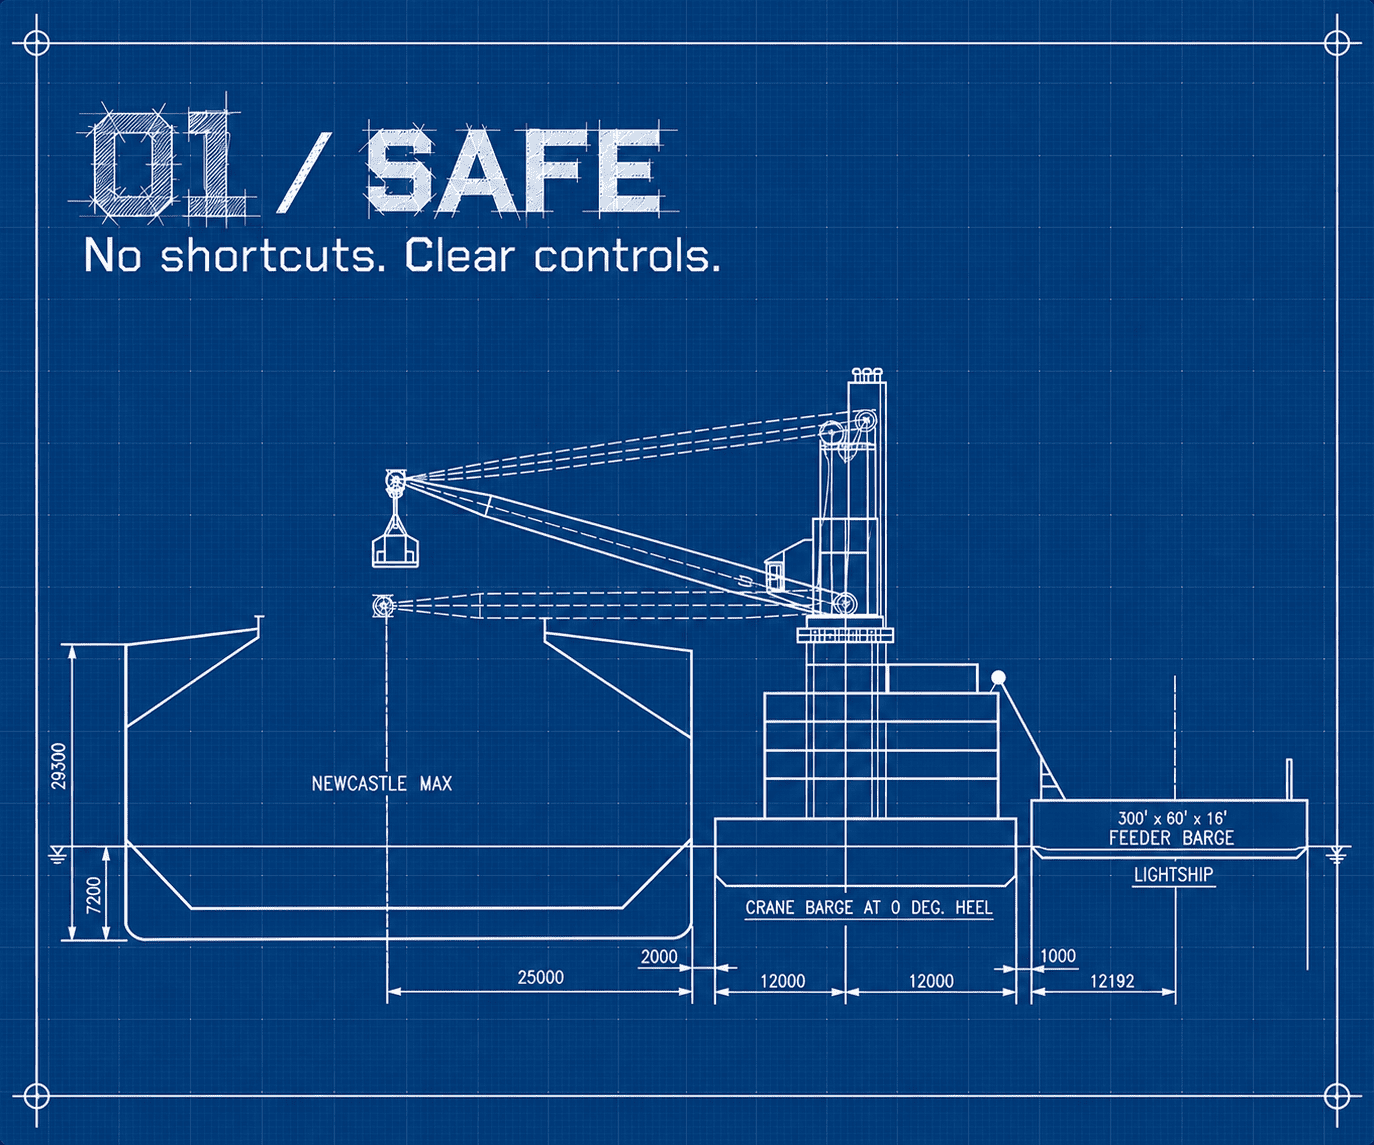
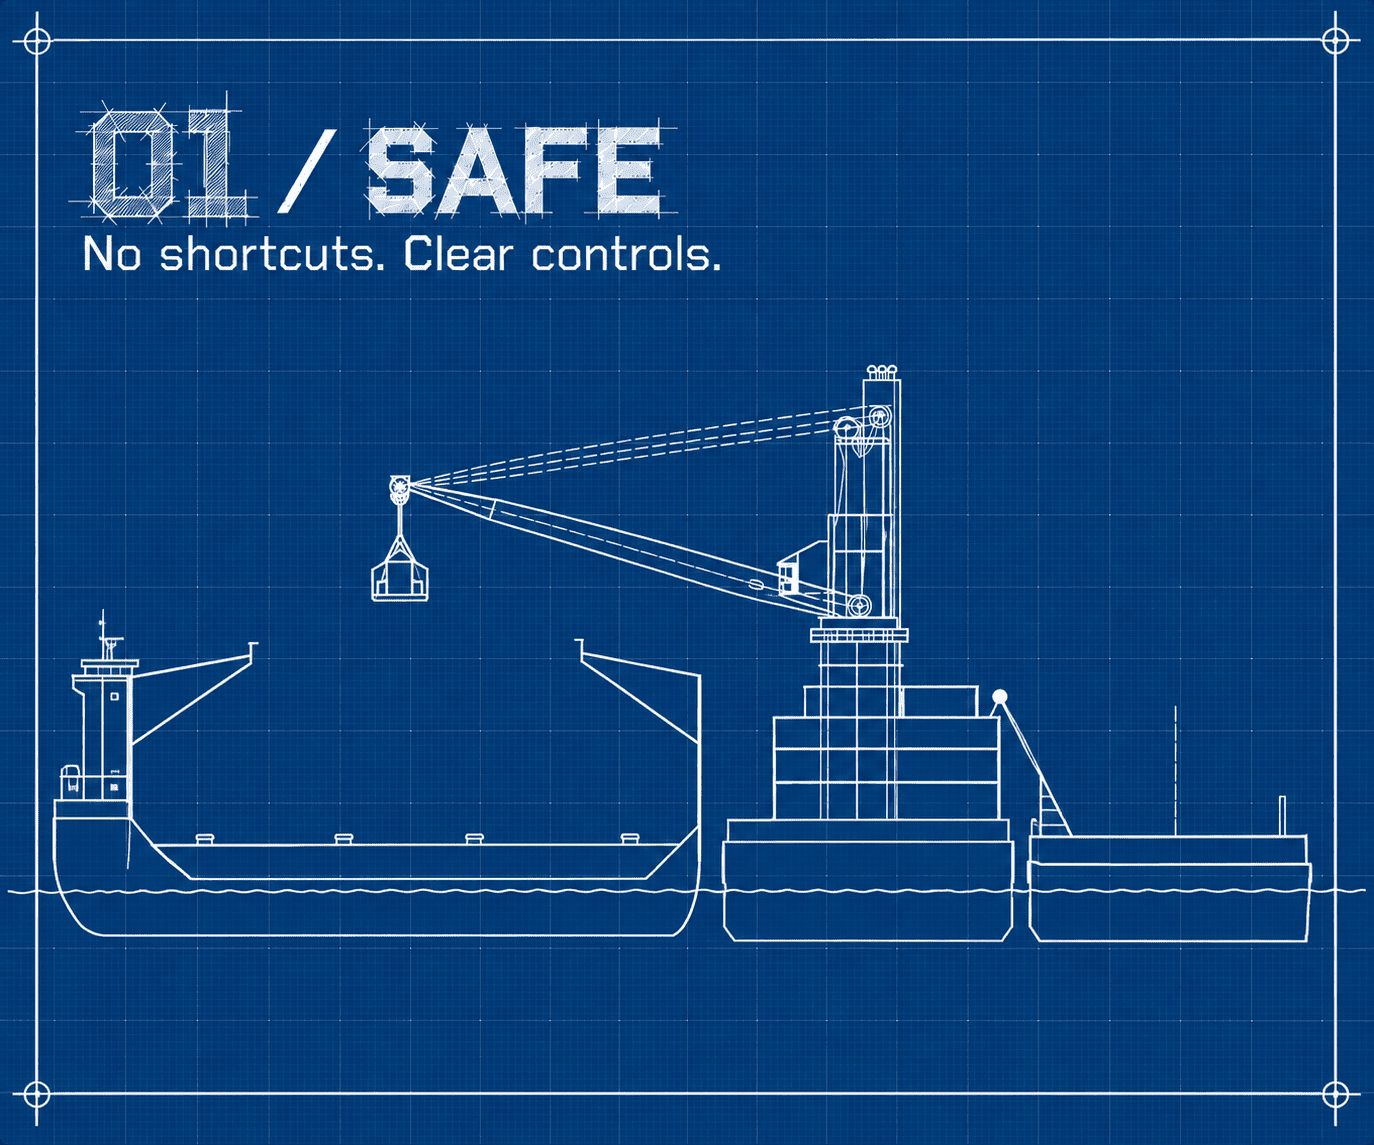
Refactor code structure for improved readability and maintainability

diff --git a/index.html b/index.html
@@ -16,7 +16,7 @@
         href="https://fonts.googleapis.com/css2?family=Barlow+Condensed:wght@500;600;700&family=DM+Sans:wght@400;450;500;600;650;700&display=swap">
     <link rel="stylesheet" href="style.css?v=20260928-perf1">
     <link rel="stylesheet" href="revamp.css?v=20260930-hse4">
-    <link rel="preload" as="image" href="assets/mobile-hero-superfast-v2.jpg" media="(max-width: 760px)"
+    <link rel="preload" as="image" href="assets/mobile-hero-superfast.png" media="(max-width: 760px)"
         fetchpriority="high">
 </head>
 
@@ -115,7 +115,7 @@
                     <img class="fleet-phase-bg fleet-phase-drawing" src="assets/e-crane-planned-blueprint.png"
                         alt="Planned E-Crane floating crane platform" loading="lazy">
                     <div class="fleet-phase-content">
-                        <p class="eyebrow">PLANNED EXPANSION / 2 FLOATING CRANES</p>
+                        <p class="eyebrow">UNDER CONSTRUCTION - ROLL OUT IN Q2 2027 / 2 FLOATING CRANES</p>
                         <h3>More capacity.<br>The same discipline.</h3>
                         <div class="fleet-capacity" aria-label="30,000 tonnes per day per planned floating crane">
                             <strong>30,000</strong>
@@ -166,36 +166,40 @@
             <div class="reliability-list">
                 <details name="reliability" open data-showcase="equipment">
                     <summary><span>01</span> Proven equipment <b>+</b></summary>
-                    <p>Internationally recognised machinery from Caterpillar, E-Crane, MacGregor, Nemag and Yanmar,
-                        selected for demanding duty and established technical support.</p>
+                    <!-- <p>Internationally recognised machinery from Caterpillar, E-Crane, MacGregor, Nemag and Yanmar,
+                        selected for demanding duty and established technical support.</p> -->
                 </details>
                 <details name="reliability" data-showcase="maintenance">
                     <summary><span>02</span> Planned maintenance <b>+</b></summary>
-                    <p>CMMS-controlled inspections, preventive maintenance and condition monitoring aligned to running
-                        hours, equipment condition and loading commitments.</p>
+                    <!-- <p>CMMS-controlled inspections, preventive maintenance and condition monitoring aligned to running
+                        hours, equipment condition and loading commitments.</p> -->
                 </details>
                 <details name="reliability" data-showcase="critical">
                     <summary><span>03</span> Critical spares <b>+</b></summary>
-                    <p>Risk-ranked critical spares, wire ropes and wear components planned against failure consequence
-                        and lead time to protect return-to-service time.</p>
+                        <!-- <p>Risk-ranked critical spares, wire ropes and wear components planned against failure consequence
+                            and lead time to protect return-to-service time.</p> -->
                 </details>
                 <details name="reliability" data-showcase="response">
                     <summary><span>04</span> Technical response <b>+</b></summary>
-                    <p>Crane specialists, strategically positioned service personnel, remote diagnostics and field
-                        intervention support fault isolation and operational recovery.</p>
+                    <!-- <p>Crane specialists, strategically positioned service personnel, remote diagnostics and field
+                        intervention support fault isolation and operational recovery.</p> -->
                 </details>
                 <details name="reliability" data-showcase="performance">
                     <summary><span>05</span> Performance control <b>+</b></summary>
-                    <p>Loading rates, mechanical availability, utilisation, equipment condition and delay attribution
-                        are reviewed to drive corrective action and continuous improvement.</p>
+                    <!-- <p>Loading rates, mechanical availability, utilisation, equipment condition and delay attribution
+                        are reviewed to drive corrective action and continuous improvement.</p> -->
                 </details>
 
                 <div class="reliability-showcase" data-active-showcase="equipment">
                     <div class="reliability-showcase-panel is-active" data-showcase-panel="equipment">
                         <div class="equipment-marquee" aria-label="Equipment brands">
-                            <div class="equipment-marquee-track">
+                            <figure class="reliability-showcase-panel reliability-photo-panel" data-showcase-panel="equipment">
+                                <img src="assets/equipment.png">
+                            </figure>
+                    <!-- 
+                        <div class="equipment-marquee-track">
 
-                        <div class="equipment-logo-set">
+                            <div class="equipment-logo-set">
                             <div class="equipment-logo"><img src="assets/brand/macgregor.svg" alt="MacGregor" decoding="async"><span>MacGregor</span></div>
                             <div class="equipment-logo ecrane-logo"><img src="assets/brand/E-Crane.jpg" alt="E-Crane" decoding="async"><span>E-Crane</span></div>
                             <div class="equipment-logo"><img src="assets/brand/Caterpillar.webp" alt="Caterpillar" decoding="async"><span>Caterpillar</span></div>
@@ -204,8 +208,9 @@
                             <div class="equipment-logo"><img src="assets/brand/nemag.png" alt="Nemag" decoding="async"><span>Nemag</span></div>
                             <div class="equipment-logo"><img src="assets/brand/j%26B.svg" alt="J&amp;B Grijpers" decoding="async"><span>J&amp;B</span></div>
                             <div class="equipment-logo"><img src="assets/brand/weihua.png" alt="Weihua" decoding="async"><span>Weihua</span></div>
+                            </div> 
                         </div>
-</div>
+                    -->
                             </div>
                         </div>
                     </div>
@@ -280,7 +285,7 @@
                 </article>
             </div>
 
-            <details class="hse hse-static">
+            <!-- <details class="hse hse-static">
                 <summary>Explore our HSE control framework <span>+</span></summary>
                 <div>
                     <ul class="hse-control-list">
@@ -292,7 +297,7 @@
                         <li>Environmental controls for spill prevention, waste management, dust suppression and cargo containment, aligned with applicable statutory and project requirements.</li>
                     </ul>
                 </div>
-            </details>
+            </details> -->
 
             <div class="performance-transparency">
                 <div class="performance-transparency-head">
@@ -300,7 +305,7 @@
                     <h3>What gets measured<br>gets made visible.</h3>
                 </div>
                 <div class="performance-transparency-body">
-                    <p>Customer reporting is structured around the operating metrics that drive voyage economics: tonnes transferred, gross and net loading rate, mechanical availability, utilisation, stoppage attribution, weather downtime, barge waiting, ocean-going vessel waiting, breakdown duration, HSE observations and campaign progress.</p>
+                    <!-- <p>Customer reporting is structured around the operating metrics that drive voyage economics: tonnes transferred, gross and net loading rate, mechanical availability, utilisation, stoppage attribution, weather downtime, barge waiting, ocean-going vessel waiting, breakdown duration, HSE observations and campaign progress.</p> -->
                     <p class="performance-principle"><span>OUR PRINCIPLE</span><em><i>Safe, Transparent and Standardized execution is the foundation of repeatable loading performance.</i></em></p>
                 </div>
             </div>
@@ -318,12 +323,12 @@
                         <span>01</span><h3>Shorter vessel turnaround</h3><b>TIME ↓</b><i aria-hidden="true">+</i>
                     </button>
                     <div class="outcome-detail">
-                        <p>Higher sustained net loading rates reduce <em>merchant vessel</em> time at anchorage and associated demurrage exposure.</p>
+                        <p>Higher sustained net loading rates <em>reduce merchant vessel</em> time at anchorage and associated demurrage exposure.</p>
                     </div>
                 </article>
                 <article class="outcome-card">
                     <button class="outcome-toggle" type="button" aria-expanded="false">
-                        <span>02</span><h3>Predictable campaigns</h3><b>CONTROL ↑</b><i aria-hidden="true">+</i>
+                        <span>02</span><h3>Predictable laycan</h3><b>CONTROL ↑</b><i aria-hidden="true">+</i>
                     </button>
                     <div class="outcome-detail">
                         <p>Mechanical availability, barge-flow visibility and disciplined stoppage control <em>take the uncertainty out of loading windows</em>, improving shipment planning and schedule confidence.</p>

diff --git a/revamp.css b/revamp.css
@@ -6740,7 +6740,7 @@ footer small {
     background:
       linear-gradient(180deg,rgba(5,20,28,.28) 0%,rgba(5,20,28,.08) 34%,rgba(5,20,28,.14) 62%,rgba(5,20,28,.72) 100%),
       linear-gradient(90deg,rgba(5,20,28,.36) 0%,rgba(5,20,28,.10) 72%,rgba(5,20,28,.02) 100%),
-      url('assets/mobile-hero-superfast.jpg') 52% center / cover no-repeat!important;
+      url('assets/mobile-hero-superfast.png') 52% center / cover no-repeat!important;
   }
 
   .hero-flow-media .hero-video-primary,
@@ -6914,7 +6914,7 @@ footer small {
     background:
       linear-gradient(180deg,rgba(5,20,28,.24) 0%,rgba(5,20,28,.04) 32%,rgba(5,20,28,.10) 58%,rgba(5,20,28,.76) 100%),
       linear-gradient(90deg,rgba(5,20,28,.34) 0%,rgba(5,20,28,.10) 66%,rgba(5,20,28,.02) 100%),
-      url('assets/mobile-hero-superfast-v2.jpg') 58% center / cover no-repeat!important;
+      url('assets/mobile-hero-superfast.png') 58% center / cover no-repeat!important;
   }
 
   .hero-flow-media .hero-video-primary,
@@ -7055,7 +7055,7 @@ footer small {
     background:
       linear-gradient(180deg,rgba(5,20,28,.20) 0%,rgba(5,20,28,.04) 31%,rgba(5,20,28,.10) 58%,rgba(5,20,28,.74) 100%),
       linear-gradient(90deg,rgba(5,20,28,.34) 0%,rgba(5,20,28,.08) 66%,rgba(5,20,28,.01) 100%),
-      url('assets/mobile-hero-superfast-v2.jpg') 57% center / cover no-repeat!important;
+      url('assets/mobile-hero-superfast.png') 57% center / cover no-repeat!important;
   }
 
   .hero-flow-media .hero-video-primary,
